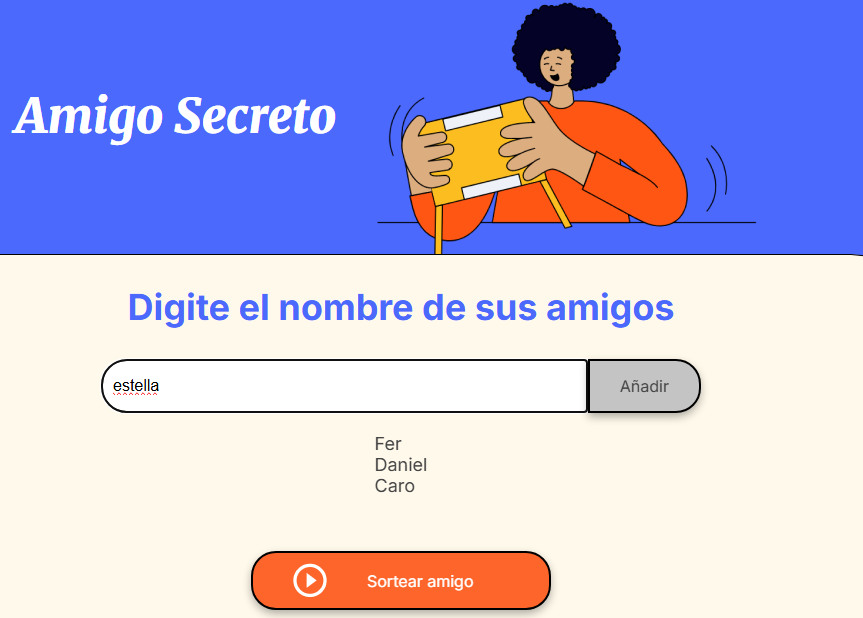
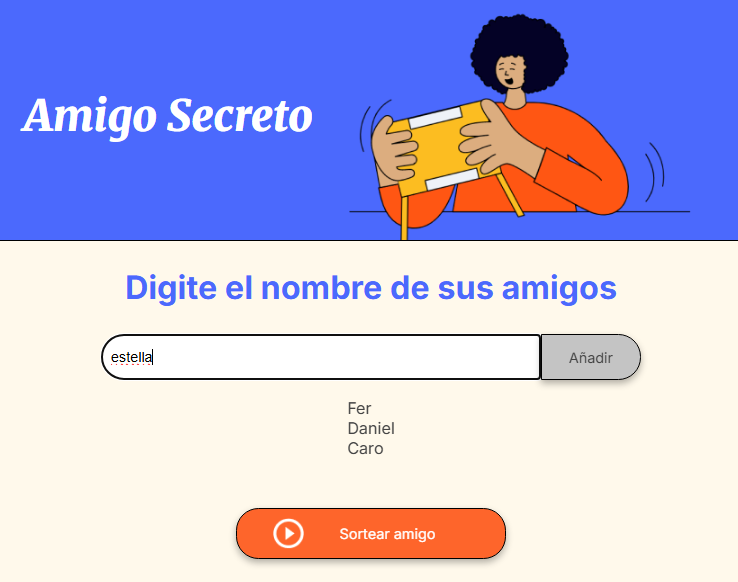
corrección readme

diff --git a/README.md b/README.md
@@ -4,7 +4,7 @@
 
 🖥 **Vista Previa**
 
-<img src="assets/image.png" alt="Vista del juego" >
+<img src="assets/image.png" alt="Vista del juego" width="600">
 
 
 ## 🚀 Características principales
@@ -27,11 +27,17 @@
 ## 📂 Estructura del Proyecto
 
 📁 src
+
 ├── 📄 index.html
+
 ├── 📄 style.css
+
 ├── 📄 script.js
+
 └── 📁 assets
+
     ├── play_circle_outline.png
+
     └── restart_alt.png
 
 ## 🚀 Instalación
@@ -53,17 +59,17 @@
 1. **Agregar participantes**: 
     ingresá los nombres en el campo de texto y haz clic en "Añadir"   para   agregar los nombres a una lista que se mostrara debajo del campo de texto.
 
-<img src="assets/agregar_participantes.png" alt="Vista de como se agragna participantes" >
+<img src="assets/agregar_participantes.png" alt="Vista de como se agragna participantes" width="600">
 
 2. **Sorteo aleatorio**: 
     al hacer clic en el botón "Sortear amigo", el juego seleccionará un nombre de forma aleatoria y lo mostrará en pantalla. 
 
-<img src="assets/sortear_amigo.png" alt="Vista del ganador del sorteo" >
+<img src="assets/sortear_amigo.png" alt="Vista del ganador del sorteo" width="600">
 
 3. **Reiniciar**: 
-    una vez que se realiza el sorteo, el botón "Sortear amigo" cambia a "Reiniciar sorteo", al cliclear se limpia la lista de amigos y el resultado comenzando nuevamente el juego.  
+    una vez que se realiza el sorteo, el botón "Sortear amigo" cambia a "Reiniciar sorteo", al cliclear se limpia la lista de amigos y el resultado, comienza nuevamente el juego!  
 
-<img src="assets/reiniciar.png" alt="Vista del juego sin los participantes" >
+<img src="assets/reiniciar.png" alt="Vista del juego sin los participantes" width="600">
 
 
-Autor: Mondillo, Maira.
+**Autor**: Mondillo, Maira.
